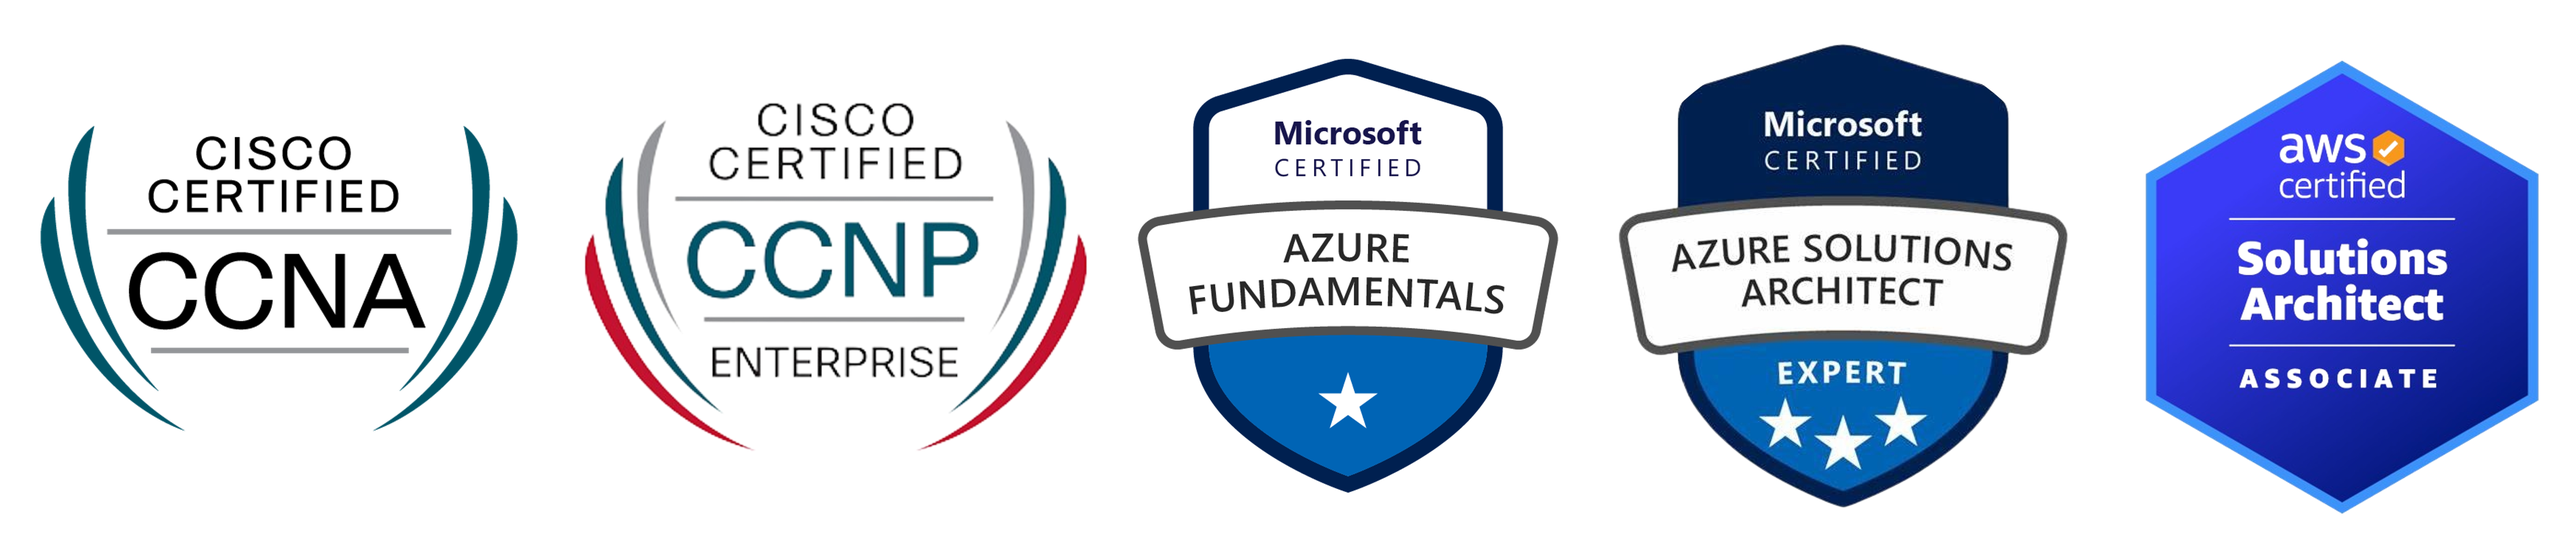
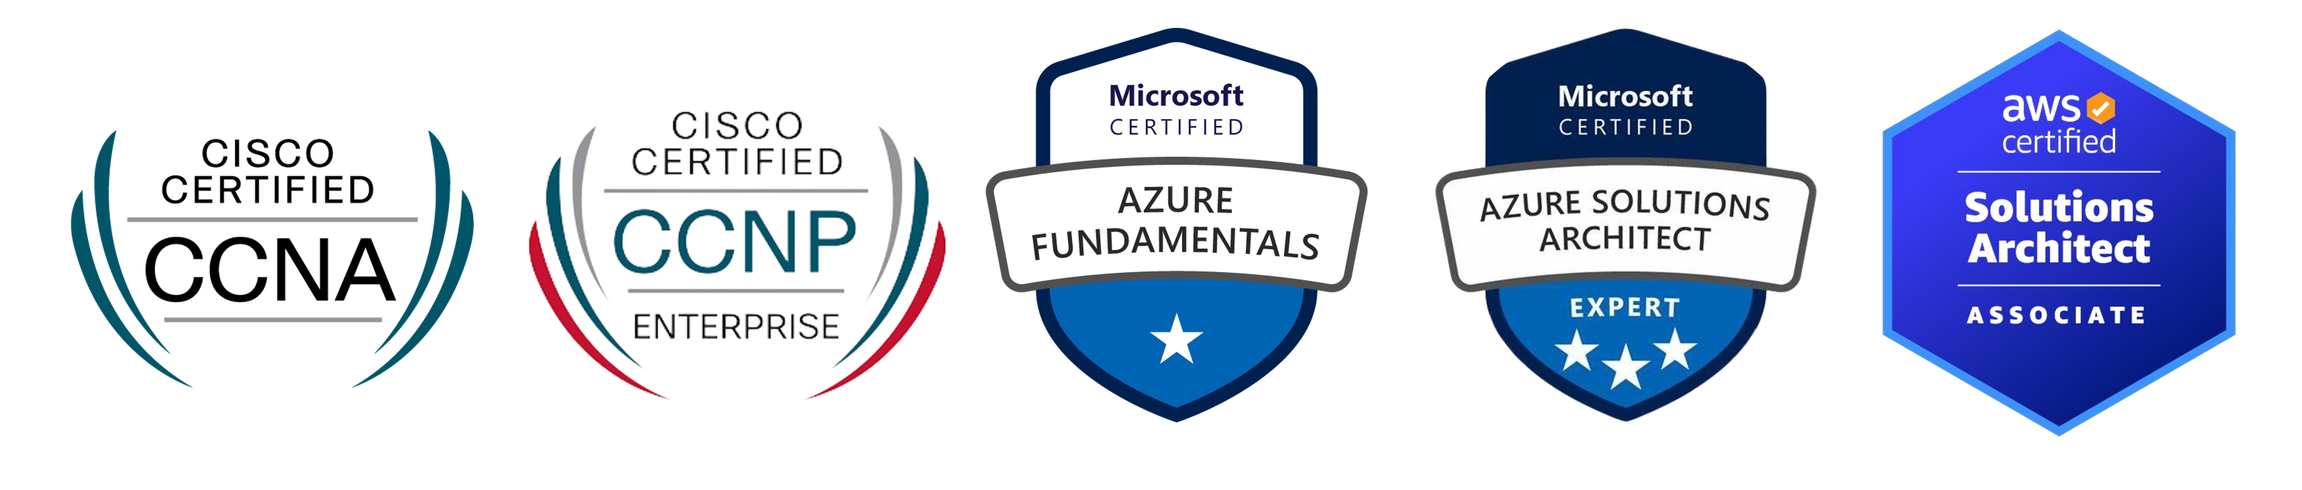
Images added

Changed region(s): [[0.0, 0.0623, 0.9978, 0.9346]]

diff --git a/Temp_CV.py b/Temp_CV.py
@@ -56,9 +56,9 @@ def send_email(sender_name, sender_email, sender_password, receiver_email, subje
         msg.attach(message_text)
 
         # Add badges in HTML format
-        badges_html = "<html><body><p>_____</p><h4>"
+        badges_html = "<html><body><p>---</p><h4>"
         for badge in badges:
-            badges_html += f"<img src='{badge}' alt='Badge' style='width:200px;height:auto;'>"
+            badges_html += f"<img src='{badge}' alt='Badge' style='width:300px;height:auto;'>"
         badges_html += "<h4></body></html>"
         msg.attach(MIMEText(badges_html, 'html'))
 
